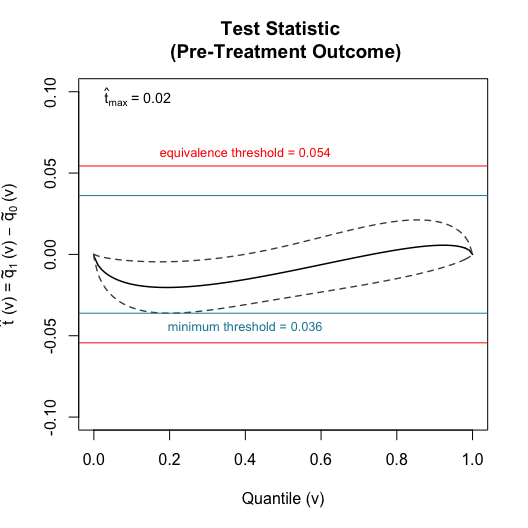
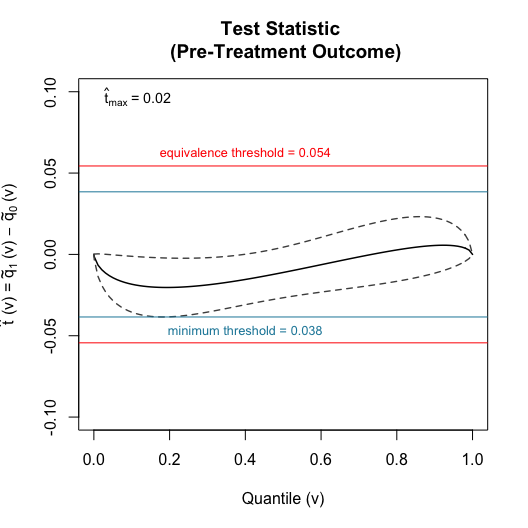
update readme

diff --git a/README.md b/README.md
@@ -11,10 +11,6 @@ status](https://travis-ci.org/soichiroy/orddid.svg?branch=master)](https://travi
 
   - Author: [Soichiro Yamauchi](https://soichiroy.github.io/)
 
-  - For a detailed description of the method see:
-    
-    Difference-in-Differences for Ordinal Outcome
-
 ## Installation Instructions
 
 You can install the development version from
@@ -30,21 +26,6 @@ install_github("soichiroy/orddid", dependencies=TRUE)
 This is a basic example which shows you how to solve a common problem:
 
 ``` r
-## load package
-library(orddid)
-library(dplyr)
-#> 
-#> Attaching package: 'dplyr'
-#> The following objects are masked from 'package:stats':
-#> 
-#>     filter, lag
-#> The following objects are masked from 'package:base':
-#> 
-#>     intersect, setdiff, setequal, union
-
-## load example data
-data("gun_twowave")
-
 ## Estimate causal effects
 set.seed(1234)
 fit <- ord_did(
@@ -52,26 +33,26 @@ fit <- ord_did(
   Yold = gun_twowave %>% filter(year == 2010) %>% pull(guns),
   treat = gun_twowave %>% filter(year == 2012) %>% pull(treat_100mi),
   id_cluster = gun_twowave %>% filter(year == 2010) %>% pull(reszip),
-  cut = c(0, 1),
   n_boot = 100,
   pre = FALSE,
   verbose = FALSE
 )
 
-## view summary
-summary(fit)
-#> ── Effect Estimates ────────────────────────────────────────────────────
-#>              Effect      SE 90% Lower 90% Upper 95% Lower 95% Upper
-#> Delta[2-3] -0.00562 0.00485  -0.01314   0.00253  -0.01426    0.0035
-#> Delta[3]    0.00431 0.00610  -0.00589   0.01302  -0.00679    0.0146
-
-## non-cumulative effect
+## view summary of the output 
+## non-cumulative effects
 summary(fit, cumulative = FALSE)
-#> ── Effect Estimates ────────────────────────────────────────────────────
-#>            Effect      SE 90% Lower 90% Upper 95% Lower 95% Upper
-#> Delta[1]  0.00562 0.00485  -0.00253   0.01314  -0.00350   0.01426
-#> Delta[2] -0.00993 0.00775  -0.02247   0.00277  -0.02401   0.00422
-#> Delta[3]  0.00431 0.00610  -0.00589   0.01302  -0.00679   0.01461
+#> ── Effect Estimates ──────────────────────────────────────────────────
+#>           Effect      SE 90% Lower 90% Upper 95% Lower 95% Upper
+#> zeta[1]  0.00559 0.00476  -0.00237   0.01233  -0.00544   0.01365
+#> zeta[2] -0.00991 0.00716  -0.02138   0.00119  -0.02282   0.00404
+#> zeta[3]  0.00432 0.00634  -0.00590   0.01536  -0.00882   0.01647
+
+## cumulative effects
+summary(fit)
+#> ── Effect Estimates ──────────────────────────────────────────────────
+#>              Effect      SE 90% Lower 90% Upper 95% Lower 95% Upper
+#> Delta[2-3] -0.00559 0.00476   -0.0123   0.00237  -0.01365   0.00544
+#> Delta[3]    0.00432 0.00634   -0.0059   0.01536  -0.00882   0.01647
 ```
 
 ## Example: Additional Pre-treatment Period is Available
@@ -118,7 +99,7 @@ zip   <- dat_14 %>% filter(caseid %in% case_full & year == 2014) %>%
           pull(reszip)
 
 ## estimate parameters
-fit <- ord_did(Ynew, Yold, treat, zip, cut = c(0, 1),
+fit <- ord_did(Ynew, Yold, treat, zip,
                n_boot = 100, pre = TRUE, verbose = FALSE)
 
 ## equivalence test
@@ -128,9 +109,9 @@ equiv_test <- equivalence_test(
 
 ## view result
 summary(equiv_test)
-#> ── Equivalence Test ────────────────────────────────────────────────────
+#> ── Equivalence Test ──────────────────────────────────────────────────
 #> Estimate (tmax)           Lower           Upper          pvalue 
-#>        0.020332       -0.036161        0.021210        0.000204 
+#>         0.02033        -0.03847         0.02321         0.00102 
 #> 
 #> [1] H0 of no-equivalence is REJECTED with threshold 0.054
 
@@ -149,9 +130,9 @@ equiv_test2 <- equivalence_test(
 
 ## view result
 summary(equiv_test2)
-#> ── Equivalence Test ────────────────────────────────────────────────────
+#> ── Equivalence Test ──────────────────────────────────────────────────
 #> Estimate (tmax)           Lower           Upper          pvalue 
-#>          0.0203         -0.0362          0.0212          0.8589 
+#>          0.0203         -0.0385          0.0232          0.8267 
 #> 
 #> [1] H0 of no-equivalence is NOT REJECTED with threshold 0.01
 ```
